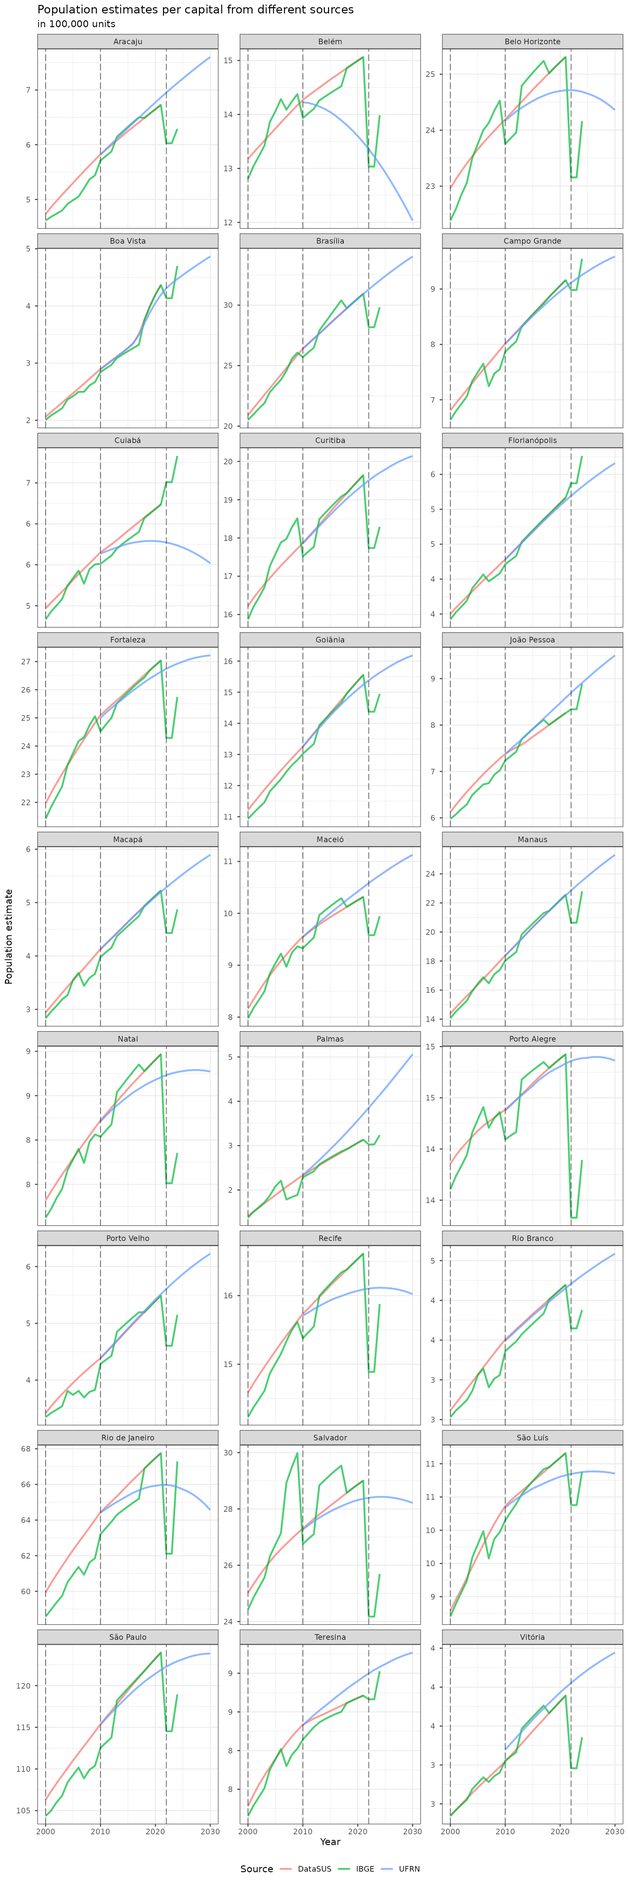
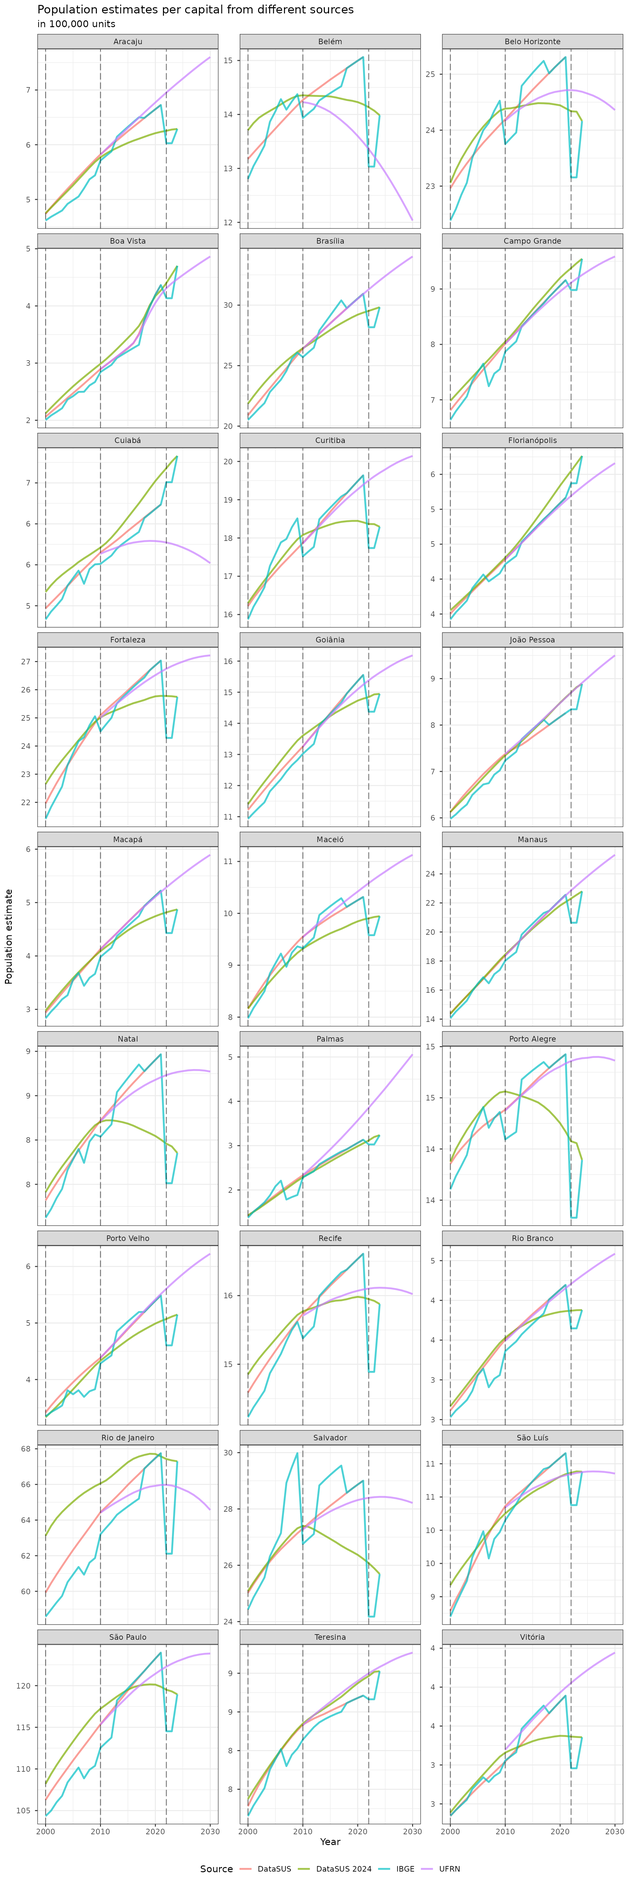
Deploying to gh-pages from @ rfsaldanha/brpop@286cbfffbbc41dc3efab9b3623959a4899475226 🚀

diff --git a/articles/Population-estimates-comparison.html b/articles/Population-estimates-comparison.html
@@ -27,7 +27,7 @@
 
     <a class="navbar-brand me-2" href="../index.html">brpop</a>
 
-    <small class="nav-text text-muted me-auto" data-bs-toggle="tooltip" data-bs-placement="bottom" title="">0.5.0</small>
+    <small class="nav-text text-muted me-auto" data-bs-toggle="tooltip" data-bs-placement="bottom" title="">0.6.0</small>
 
 
     <button class="navbar-toggler" type="button" data-bs-toggle="collapse" data-bs-target="#navbar" aria-controls="navbar" aria-expanded="false" aria-label="Toggle navigation">
@@ -73,9 +73,10 @@
 at the <code>brpop</code> package.</p>
 <p>Currently, the package present population estimates by
 municipalities, sex and age groups computed by the DataSUS (Brazilian
-Health Ministry) and by the UFRN-PPGDEM-LEPP laboratory. The package
-also have the total estimates computed by IBGE for inter-census years,
-and population data for Census and population inquiries years.</p>
+Health Ministry) old and news estimates and by the UFRN-PPGDEM-LEPP
+laboratory. The package also have the total estimates computed by IBGE
+for inter-census years, and population data for Census and population
+inquiries years.</p>
 <div class="sourceCode" id="cb1"><pre class="downlit sourceCode r">
 <code class="sourceCode R"><span><span class="kw"><a href="https://rdrr.io/r/base/library.html" class="external-link">library</a></span><span class="op">(</span><span class="va"><a href="https://dplyr.tidyverse.org" class="external-link">dplyr</a></span><span class="op">)</span></span>
 <span><span class="kw"><a href="https://rdrr.io/r/base/library.html" class="external-link">library</a></span><span class="op">(</span><span class="va"><a href="https://tibble.tidyverse.org/" class="external-link">tibble</a></span><span class="op">)</span></span>
@@ -93,23 +94,28 @@ and population data for Census and population inquiries years.</p>
 <div class="section level2">
 <h2 id="total-population-per-uf">Total population per UF<a class="anchor" aria-label="anchor" href="#total-population-per-uf"></a>
 </h2>
-<p>First, we will compare the total population estimates, using the
-<code>brpop</code> functions to aggregate the estimates per UF.</p>
 <div class="sourceCode" id="cb3"><pre class="downlit sourceCode r">
 <code class="sourceCode R"><span><span class="va">datasus_pop_uf</span> <span class="op">&lt;-</span> <span class="fu"><a href="../reference/uf_pop_totals.html">uf_pop_totals</a></span><span class="op">(</span>source <span class="op">=</span> <span class="st">"datasus"</span><span class="op">)</span> <span class="op">|&gt;</span></span>
 <span>  <span class="fu"><a href="https://dplyr.tidyverse.org/reference/mutate.html" class="external-link">mutate</a></span><span class="op">(</span>source <span class="op">=</span> <span class="st">"DataSUS"</span><span class="op">)</span> <span class="op">|&gt;</span></span>
 <span>  <span class="fu"><a href="https://dplyr.tidyverse.org/reference/filter.html" class="external-link">filter</a></span><span class="op">(</span><span class="va">uf</span> <span class="op">!=</span> <span class="st">"5e"</span><span class="op">)</span></span>
 <span><span class="co">#&gt; Setting `max_tries = 2`.</span></span>
 <span><span class="co">#&gt; Setting `max_tries = 2`.</span></span>
+<span></span>
 <span><span class="va">ufrn_pop_uf</span> <span class="op">&lt;-</span> <span class="fu"><a href="../reference/uf_pop_totals.html">uf_pop_totals</a></span><span class="op">(</span>source <span class="op">=</span> <span class="st">"ufrn"</span><span class="op">)</span> <span class="op">|&gt;</span></span>
 <span>  <span class="fu"><a href="https://dplyr.tidyverse.org/reference/mutate.html" class="external-link">mutate</a></span><span class="op">(</span>source <span class="op">=</span> <span class="st">"UFRN"</span><span class="op">)</span></span>
 <span><span class="co">#&gt; Setting `max_tries = 2`.</span></span>
 <span><span class="co">#&gt; Setting `max_tries = 2`.</span></span>
+<span></span>
 <span><span class="va">ibge_pop_uf</span> <span class="op">&lt;-</span> <span class="fu"><a href="../reference/uf_pop_totals.html">uf_pop_totals</a></span><span class="op">(</span>source <span class="op">=</span> <span class="st">"ibge"</span><span class="op">)</span> <span class="op">|&gt;</span></span>
 <span>  <span class="fu"><a href="https://dplyr.tidyverse.org/reference/mutate.html" class="external-link">mutate</a></span><span class="op">(</span>source <span class="op">=</span> <span class="st">"IBGE"</span><span class="op">)</span></span>
 <span><span class="co">#&gt; Setting `max_tries = 2`.</span></span>
 <span></span>
-<span><span class="fu"><a href="https://dplyr.tidyverse.org/reference/bind_rows.html" class="external-link">bind_rows</a></span><span class="op">(</span><span class="va">datasus_pop_uf</span>, <span class="va">ufrn_pop_uf</span>, <span class="va">ibge_pop_uf</span><span class="op">)</span> <span class="op">|&gt;</span></span>
+<span><span class="va">datasus2024_pop_uf</span> <span class="op">&lt;-</span> <span class="fu"><a href="../reference/uf_pop_totals.html">uf_pop_totals</a></span><span class="op">(</span>source <span class="op">=</span> <span class="st">"datasus2024"</span><span class="op">)</span> <span class="op">|&gt;</span></span>
+<span>  <span class="fu"><a href="https://dplyr.tidyverse.org/reference/mutate.html" class="external-link">mutate</a></span><span class="op">(</span>source <span class="op">=</span> <span class="st">"DataSUS 2024"</span><span class="op">)</span></span>
+<span><span class="co">#&gt; Setting `max_tries = 2`.</span></span>
+<span><span class="co">#&gt; Setting `max_tries = 2`.</span></span>
+<span></span>
+<span><span class="fu"><a href="https://dplyr.tidyverse.org/reference/bind_rows.html" class="external-link">bind_rows</a></span><span class="op">(</span><span class="va">datasus_pop_uf</span>, <span class="va">ufrn_pop_uf</span>, <span class="va">ibge_pop_uf</span>, <span class="va">datasus2024_pop_uf</span><span class="op">)</span> <span class="op">|&gt;</span></span>
 <span>  <span class="fu"><a href="https://dplyr.tidyverse.org/reference/mutate-joins.html" class="external-link">left_join</a></span><span class="op">(</span><span class="va">names_helper</span>, by <span class="op">=</span> <span class="fu"><a href="https://rdrr.io/r/base/c.html" class="external-link">c</a></span><span class="op">(</span><span class="st">"uf"</span> <span class="op">=</span> <span class="st">"uf_code"</span><span class="op">)</span><span class="op">)</span> <span class="op">|&gt;</span></span>
 <span>  <span class="fu"><a href="https://ggplot2.tidyverse.org/reference/ggplot.html" class="external-link">ggplot</a></span><span class="op">(</span><span class="fu"><a href="https://ggplot2.tidyverse.org/reference/aes.html" class="external-link">aes</a></span><span class="op">(</span>x <span class="op">=</span> <span class="va">year</span>, y <span class="op">=</span> <span class="va">pop</span>, color <span class="op">=</span> <span class="va">source</span>, group <span class="op">=</span> <span class="va">source</span><span class="op">)</span><span class="op">)</span> <span class="op">+</span></span>
 <span>  <span class="fu"><a href="https://ggplot2.tidyverse.org/reference/geom_path.html" class="external-link">geom_line</a></span><span class="op">(</span>stat <span class="op">=</span> <span class="st">"identity"</span>, alpha <span class="op">=</span> <span class="fl">.7</span>, lwd <span class="op">=</span> <span class="fl">1</span><span class="op">)</span> <span class="op">+</span></span>
@@ -122,15 +128,10 @@ and population data for Census and population inquiries years.</p>
 <span>       subtitle <span class="op">=</span> <span class="st">"in 100,000 units"</span>,</span>
 <span>       color <span class="op">=</span> <span class="st">"Source"</span>, x <span class="op">=</span> <span class="st">"Year"</span>, y <span class="op">=</span> <span class="st">"Population estimate"</span><span class="op">)</span></span></code></pre></div>
 <p><img src="Population-estimates-comparison_files/figure-html/uf-plot-1.png" width="960"></p>
-<p>It can be observed that the estimates from DataSUS and UFRN generally
-agrees on tendency and present an overlapping period (2010 - 2021) with
-similar values. The IBGE population estimates present a more erratic
-pattern at some UFs.</p>
 </div>
 <div class="section level2">
 <h2 id="total-population-per-capitals">Total population per capitals<a class="anchor" aria-label="anchor" href="#total-population-per-capitals"></a>
 </h2>
-<p>Now let’s look at capitals data.</p>
 <div class="sourceCode" id="cb4"><pre class="downlit sourceCode r">
 <code class="sourceCode R"><span><span class="va">datasus_pop_mun</span> <span class="op">&lt;-</span> <span class="fu"><a href="../reference/mun_pop_totals.html">mun_pop_totals</a></span><span class="op">(</span>source <span class="op">=</span> <span class="st">"datasus"</span><span class="op">)</span> <span class="op">|&gt;</span></span>
 <span>  <span class="fu"><a href="https://dplyr.tidyverse.org/reference/mutate.html" class="external-link">mutate</a></span><span class="op">(</span>source <span class="op">=</span> <span class="st">"DataSUS"</span><span class="op">)</span> <span class="op">|&gt;</span></span>
@@ -144,8 +145,11 @@ pattern at some UFs.</p>
 <span>  <span class="fu"><a href="https://dplyr.tidyverse.org/reference/mutate.html" class="external-link">mutate</a></span><span class="op">(</span>source <span class="op">=</span> <span class="st">"IBGE"</span><span class="op">)</span> <span class="op">|&gt;</span></span>
 <span>  <span class="fu"><a href="https://dplyr.tidyverse.org/reference/mutate-joins.html" class="external-link">right_join</a></span><span class="op">(</span><span class="va">names_helper</span>, by <span class="op">=</span> <span class="fu"><a href="https://rdrr.io/r/base/c.html" class="external-link">c</a></span><span class="op">(</span><span class="st">"code_muni"</span> <span class="op">=</span> <span class="st">"cap_code7"</span><span class="op">)</span><span class="op">)</span></span>
 <span></span>
+<span><span class="va">datasus2024_pop_mun</span> <span class="op">&lt;-</span> <span class="fu"><a href="../reference/mun_pop_totals.html">mun_pop_totals</a></span><span class="op">(</span>source <span class="op">=</span> <span class="st">"datasus2024"</span><span class="op">)</span> <span class="op">|&gt;</span></span>
+<span>  <span class="fu"><a href="https://dplyr.tidyverse.org/reference/mutate.html" class="external-link">mutate</a></span><span class="op">(</span>source <span class="op">=</span> <span class="st">"DataSUS 2024"</span><span class="op">)</span> <span class="op">|&gt;</span></span>
+<span>  <span class="fu"><a href="https://dplyr.tidyverse.org/reference/mutate-joins.html" class="external-link">right_join</a></span><span class="op">(</span><span class="va">names_helper</span>, by <span class="op">=</span> <span class="fu"><a href="https://rdrr.io/r/base/c.html" class="external-link">c</a></span><span class="op">(</span><span class="st">"code_muni"</span> <span class="op">=</span> <span class="st">"cap_code7"</span><span class="op">)</span><span class="op">)</span></span>
 <span></span>
-<span><span class="fu"><a href="https://dplyr.tidyverse.org/reference/bind_rows.html" class="external-link">bind_rows</a></span><span class="op">(</span><span class="va">datasus_pop_mun</span>, <span class="va">ufrn_pop_mun</span>, <span class="va">ibge_pop_mun</span><span class="op">)</span> <span class="op">|&gt;</span></span>
+<span><span class="fu"><a href="https://dplyr.tidyverse.org/reference/bind_rows.html" class="external-link">bind_rows</a></span><span class="op">(</span><span class="va">datasus_pop_mun</span>, <span class="va">ufrn_pop_mun</span>, <span class="va">ibge_pop_mun</span>, <span class="va">datasus2024_pop_mun</span><span class="op">)</span> <span class="op">|&gt;</span></span>
 <span>  <span class="fu"><a href="https://ggplot2.tidyverse.org/reference/ggplot.html" class="external-link">ggplot</a></span><span class="op">(</span><span class="fu"><a href="https://ggplot2.tidyverse.org/reference/aes.html" class="external-link">aes</a></span><span class="op">(</span>x <span class="op">=</span> <span class="va">year</span>, y <span class="op">=</span> <span class="va">pop</span>, color <span class="op">=</span> <span class="va">source</span>, group <span class="op">=</span> <span class="va">source</span><span class="op">)</span><span class="op">)</span> <span class="op">+</span></span>
 <span>  <span class="fu"><a href="https://ggplot2.tidyverse.org/reference/geom_path.html" class="external-link">geom_line</a></span><span class="op">(</span>stat <span class="op">=</span> <span class="st">"identity"</span>, alpha <span class="op">=</span> <span class="fl">.7</span>, lwd <span class="op">=</span> <span class="fl">1</span><span class="op">)</span> <span class="op">+</span></span>
 <span>  <span class="fu"><a href="https://ggplot2.tidyverse.org/reference/geom_abline.html" class="external-link">geom_vline</a></span><span class="op">(</span>xintercept <span class="op">=</span> <span class="fu"><a href="https://rdrr.io/r/base/c.html" class="external-link">c</a></span><span class="op">(</span><span class="fl">2000</span>, <span class="fl">2010</span>, <span class="fl">2022</span><span class="op">)</span>, alpha <span class="op">=</span> <span class="fl">.5</span>, linetype <span class="op">=</span> <span class="st">"longdash"</span><span class="op">)</span> <span class="op">+</span></span>
@@ -157,10 +161,6 @@ pattern at some UFs.</p>
 <span>       subtitle <span class="op">=</span> <span class="st">"in 100,000 units"</span>,</span>
 <span>       color <span class="op">=</span> <span class="st">"Source"</span>, x <span class="op">=</span> <span class="st">"Year"</span>, y <span class="op">=</span> <span class="st">"Population estimate"</span><span class="op">)</span></span></code></pre></div>
 <p><img src="Population-estimates-comparison_files/figure-html/cap-plot-1.png" width="960"></p>
-<p>At the municipal level, the population estimates for the capitals
-presents more variability. At some capitals, the estimates from DataSUS
-and UFRN does not converge on the overlapping period. The IBGE estimates
-also present a more erratic pattern on some capitals.</p>
 </div>
 <div class="section level2">
 <h2 id="session-info">Session info<a class="anchor" aria-label="anchor" href="#session-info"></a>
@@ -188,7 +188,7 @@ also present a more erratic pattern on some capitals.</p>
 <span><span class="co">#&gt; [1] stats     graphics  grDevices utils     datasets  methods   base     </span></span>
 <span><span class="co">#&gt; </span></span>
 <span><span class="co">#&gt; other attached packages:</span></span>
-<span><span class="co">#&gt; [1] brpop_0.5.0   scales_1.3.0  ggplot2_3.5.1 tibble_3.2.1  dplyr_1.1.4  </span></span>
+<span><span class="co">#&gt; [1] brpop_0.6.0   scales_1.3.0  ggplot2_3.5.1 tibble_3.2.1  dplyr_1.1.4  </span></span>
 <span><span class="co">#&gt; </span></span>
 <span><span class="co">#&gt; loaded via a namespace (and not attached):</span></span>
 <span><span class="co">#&gt;  [1] rappdirs_0.3.3    sass_0.4.9        generics_0.1.3    tidyr_1.3.1      </span></span>

diff --git a/reference/datasus2024_mun_female_pop.html b/reference/datasus2024_mun_female_pop.html
@@ -1,5 +1,5 @@
 <!DOCTYPE html>
-<!-- Generated by pkgdown: do not edit by hand --><html lang="en"><head><meta http-equiv="Content-Type" content="text/html; charset=UTF-8"><meta charset="utf-8"><meta http-equiv="X-UA-Compatible" content="IE=edge"><meta name="viewport" content="width=device-width, initial-scale=1, shrink-to-fit=no"><title>Municipality yearly male population estimates per age group from 2000 to 2021 — datasus_mun_male_pop • brpop</title><script src="../deps/jquery-3.6.0/jquery-3.6.0.min.js"></script><meta name="viewport" content="width=device-width, initial-scale=1, shrink-to-fit=no"><link href="../deps/bootstrap-5.3.1/bootstrap.min.css" rel="stylesheet"><script src="../deps/bootstrap-5.3.1/bootstrap.bundle.min.js"></script><link href="../deps/font-awesome-6.5.2/css/all.min.css" rel="stylesheet"><link href="../deps/font-awesome-6.5.2/css/v4-shims.min.css" rel="stylesheet"><script src="../deps/headroom-0.11.0/headroom.min.js"></script><script src="../deps/headroom-0.11.0/jQuery.headroom.min.js"></script><script src="../deps/bootstrap-toc-1.0.1/bootstrap-toc.min.js"></script><script src="../deps/clipboard.js-2.0.11/clipboard.min.js"></script><script src="../deps/search-1.0.0/autocomplete.jquery.min.js"></script><script src="../deps/search-1.0.0/fuse.min.js"></script><script src="../deps/search-1.0.0/mark.min.js"></script><!-- pkgdown --><script src="../pkgdown.js"></script><meta property="og:title" content="Municipality yearly male population estimates per age group from 2000 to 2021 — datasus_mun_male_pop"><meta name="description" content="A dataset containing male population estimates for Brazilian municipalities per age groups from 2000 to 2021."><meta property="og:description" content="A dataset containing male population estimates for Brazilian municipalities per age groups from 2000 to 2021."><!-- Global site tag (gtag.js) - Google Analytics --><script async src="https://www.googletagmanager.com/gtag/js?id=G-2M7VLSRDCB"></script><script>
+<!-- Generated by pkgdown: do not edit by hand --><html lang="en"><head><meta http-equiv="Content-Type" content="text/html; charset=UTF-8"><meta charset="utf-8"><meta http-equiv="X-UA-Compatible" content="IE=edge"><meta name="viewport" content="width=device-width, initial-scale=1, shrink-to-fit=no"><title>Municipality yearly female population estimates per age group from 2000 to 2024 — datasus2024_mun_female_pop • brpop</title><script src="../deps/jquery-3.6.0/jquery-3.6.0.min.js"></script><meta name="viewport" content="width=device-width, initial-scale=1, shrink-to-fit=no"><link href="../deps/bootstrap-5.3.1/bootstrap.min.css" rel="stylesheet"><script src="../deps/bootstrap-5.3.1/bootstrap.bundle.min.js"></script><link href="../deps/font-awesome-6.5.2/css/all.min.css" rel="stylesheet"><link href="../deps/font-awesome-6.5.2/css/v4-shims.min.css" rel="stylesheet"><script src="../deps/headroom-0.11.0/headroom.min.js"></script><script src="../deps/headroom-0.11.0/jQuery.headroom.min.js"></script><script src="../deps/bootstrap-toc-1.0.1/bootstrap-toc.min.js"></script><script src="../deps/clipboard.js-2.0.11/clipboard.min.js"></script><script src="../deps/search-1.0.0/autocomplete.jquery.min.js"></script><script src="../deps/search-1.0.0/fuse.min.js"></script><script src="../deps/search-1.0.0/mark.min.js"></script><!-- pkgdown --><script src="../pkgdown.js"></script><meta property="og:title" content="Municipality yearly female population estimates per age group from 2000 to 2024 — datasus2024_mun_female_pop"><meta name="description" content="A dataset containing female population estimates for Brazilian municipalities per age groups from 2000 to 2024."><meta property="og:description" content="A dataset containing female population estimates for Brazilian municipalities per age groups from 2000 to 2024."><!-- Global site tag (gtag.js) - Google Analytics --><script async src="https://www.googletagmanager.com/gtag/js?id=G-2M7VLSRDCB"></script><script>
   window.dataLayer = window.dataLayer || [];
   function gtag(){dataLayer.push(arguments);}
   gtag('js', new Date());
@@ -36,18 +36,18 @@
 <div class="row">
   <main id="main" class="col-md-9"><div class="page-header">
 
-      <h1>Municipality yearly male population estimates per age group from 2000 to 2021</h1>
-      <small class="dont-index">Source: <a href="https://github.com/rfsaldanha/brpop/blob/main/R/datasus_mun_male_pop.R" class="external-link"><code>R/datasus_mun_male_pop.R</code></a></small>
-      <div class="d-none name"><code>datasus_mun_male_pop.Rd</code></div>
+      <h1>Municipality yearly female population estimates per age group from 2000 to 2024</h1>
+      <small class="dont-index">Source: <a href="https://github.com/rfsaldanha/brpop/blob/main/R/datasus2024_mun_female_pop.R" class="external-link"><code>R/datasus2024_mun_female_pop.R</code></a></small>
+      <div class="d-none name"><code>datasus2024_mun_female_pop.Rd</code></div>
     </div>
 
     <div class="ref-description section level2">
-    <p>A dataset containing male population estimates for Brazilian municipalities per age groups from 2000 to 2021.</p>
+    <p>A dataset containing female population estimates for Brazilian municipalities per age groups from 2000 to 2024.</p>
     </div>
 
     <div class="section level2">
     <h2 id="ref-usage">Usage<a class="anchor" aria-label="anchor" href="#ref-usage"></a></h2>
-    <div class="sourceCode"><pre class="sourceCode r"><code><span><span class="fu">datasus_mun_male_pop</span><span class="op">(</span><span class="op">)</span></span></code></pre></div>
+    <div class="sourceCode"><pre class="sourceCode r"><code><span><span class="fu">datasus2024_mun_female_pop</span><span class="op">(</span><span class="op">)</span></span></code></pre></div>
     </div>
 
     <div class="section level2">

diff --git a/reference/datasus2024_mun_male_pop.html b/reference/datasus2024_mun_male_pop.html
@@ -1,5 +1,5 @@
 <!DOCTYPE html>
-<!-- Generated by pkgdown: do not edit by hand --><html lang="en"><head><meta http-equiv="Content-Type" content="text/html; charset=UTF-8"><meta charset="utf-8"><meta http-equiv="X-UA-Compatible" content="IE=edge"><meta name="viewport" content="width=device-width, initial-scale=1, shrink-to-fit=no"><title>Municipality yearly male population estimates per age group from 2000 to 2021 — datasus_mun_male_pop • brpop</title><script src="../deps/jquery-3.6.0/jquery-3.6.0.min.js"></script><meta name="viewport" content="width=device-width, initial-scale=1, shrink-to-fit=no"><link href="../deps/bootstrap-5.3.1/bootstrap.min.css" rel="stylesheet"><script src="../deps/bootstrap-5.3.1/bootstrap.bundle.min.js"></script><link href="../deps/font-awesome-6.5.2/css/all.min.css" rel="stylesheet"><link href="../deps/font-awesome-6.5.2/css/v4-shims.min.css" rel="stylesheet"><script src="../deps/headroom-0.11.0/headroom.min.js"></script><script src="../deps/headroom-0.11.0/jQuery.headroom.min.js"></script><script src="../deps/bootstrap-toc-1.0.1/bootstrap-toc.min.js"></script><script src="../deps/clipboard.js-2.0.11/clipboard.min.js"></script><script src="../deps/search-1.0.0/autocomplete.jquery.min.js"></script><script src="../deps/search-1.0.0/fuse.min.js"></script><script src="../deps/search-1.0.0/mark.min.js"></script><!-- pkgdown --><script src="../pkgdown.js"></script><meta property="og:title" content="Municipality yearly male population estimates per age group from 2000 to 2021 — datasus_mun_male_pop"><meta name="description" content="A dataset containing male population estimates for Brazilian municipalities per age groups from 2000 to 2021."><meta property="og:description" content="A dataset containing male population estimates for Brazilian municipalities per age groups from 2000 to 2021."><!-- Global site tag (gtag.js) - Google Analytics --><script async src="https://www.googletagmanager.com/gtag/js?id=G-2M7VLSRDCB"></script><script>
+<!-- Generated by pkgdown: do not edit by hand --><html lang="en"><head><meta http-equiv="Content-Type" content="text/html; charset=UTF-8"><meta charset="utf-8"><meta http-equiv="X-UA-Compatible" content="IE=edge"><meta name="viewport" content="width=device-width, initial-scale=1, shrink-to-fit=no"><title>Municipality yearly male population estimates per age group from 2000 to 2024 — datasus2024_mun_male_pop • brpop</title><script src="../deps/jquery-3.6.0/jquery-3.6.0.min.js"></script><meta name="viewport" content="width=device-width, initial-scale=1, shrink-to-fit=no"><link href="../deps/bootstrap-5.3.1/bootstrap.min.css" rel="stylesheet"><script src="../deps/bootstrap-5.3.1/bootstrap.bundle.min.js"></script><link href="../deps/font-awesome-6.5.2/css/all.min.css" rel="stylesheet"><link href="../deps/font-awesome-6.5.2/css/v4-shims.min.css" rel="stylesheet"><script src="../deps/headroom-0.11.0/headroom.min.js"></script><script src="../deps/headroom-0.11.0/jQuery.headroom.min.js"></script><script src="../deps/bootstrap-toc-1.0.1/bootstrap-toc.min.js"></script><script src="../deps/clipboard.js-2.0.11/clipboard.min.js"></script><script src="../deps/search-1.0.0/autocomplete.jquery.min.js"></script><script src="../deps/search-1.0.0/fuse.min.js"></script><script src="../deps/search-1.0.0/mark.min.js"></script><!-- pkgdown --><script src="../pkgdown.js"></script><meta property="og:title" content="Municipality yearly male population estimates per age group from 2000 to 2024 — datasus2024_mun_male_pop"><meta name="description" content="A dataset containing male population estimates for Brazilian municipalities per age groups from 2000 to 2024."><meta property="og:description" content="A dataset containing male population estimates for Brazilian municipalities per age groups from 2000 to 2024."><!-- Global site tag (gtag.js) - Google Analytics --><script async src="https://www.googletagmanager.com/gtag/js?id=G-2M7VLSRDCB"></script><script>
   window.dataLayer = window.dataLayer || [];
   function gtag(){dataLayer.push(arguments);}
   gtag('js', new Date());
@@ -36,18 +36,18 @@
 <div class="row">
   <main id="main" class="col-md-9"><div class="page-header">
 
-      <h1>Municipality yearly male population estimates per age group from 2000 to 2021</h1>
-      <small class="dont-index">Source: <a href="https://github.com/rfsaldanha/brpop/blob/main/R/datasus_mun_male_pop.R" class="external-link"><code>R/datasus_mun_male_pop.R</code></a></small>
-      <div class="d-none name"><code>datasus_mun_male_pop.Rd</code></div>
+      <h1>Municipality yearly male population estimates per age group from 2000 to 2024</h1>
+      <small class="dont-index">Source: <a href="https://github.com/rfsaldanha/brpop/blob/main/R/datasus2024_mun_male_pop.R" class="external-link"><code>R/datasus2024_mun_male_pop.R</code></a></small>
+      <div class="d-none name"><code>datasus2024_mun_male_pop.Rd</code></div>
     </div>
 
     <div class="ref-description section level2">
-    <p>A dataset containing male population estimates for Brazilian municipalities per age groups from 2000 to 2021.</p>
+    <p>A dataset containing male population estimates for Brazilian municipalities per age groups from 2000 to 2024.</p>
     </div>
 
     <div class="section level2">
     <h2 id="ref-usage">Usage<a class="anchor" aria-label="anchor" href="#ref-usage"></a></h2>
-    <div class="sourceCode"><pre class="sourceCode r"><code><span><span class="fu">datasus_mun_male_pop</span><span class="op">(</span><span class="op">)</span></span></code></pre></div>
+    <div class="sourceCode"><pre class="sourceCode r"><code><span><span class="fu">datasus2024_mun_male_pop</span><span class="op">(</span><span class="op">)</span></span></code></pre></div>
     </div>
 
     <div class="section level2">

diff --git a/news/index.html b/news/index.html
@@ -13,7 +13,7 @@
 
     <a class="navbar-brand me-2" href="../index.html">brpop</a>
 
-    <small class="nav-text text-muted me-auto" data-bs-toggle="tooltip" data-bs-placement="bottom" title="">0.5.0</small>
+    <small class="nav-text text-muted me-auto" data-bs-toggle="tooltip" data-bs-placement="bottom" title="">0.6.0</small>
 
 
     <button class="navbar-toggler" type="button" data-bs-toggle="collapse" data-bs-target="#navbar" aria-controls="navbar" aria-expanded="false" aria-label="Toggle navigation">
@@ -40,6 +40,11 @@
       <small>Source: <a href="https://github.com/rfsaldanha/brpop/blob/main/NEWS.md" class="external-link"><code>NEWS.md</code></a></small>
     </div>
 
+    <div class="section level2">
+<h2 class="pkg-version" data-toc-text="0.6.0" id="brpop-060">brpop 0.6.0<a class="anchor" aria-label="anchor" href="#brpop-060"></a></h2>
+<ul><li>Add DataSUS new population estimates (2000 - 2024) source option to all functions</li>
+<li>Improve documentation with timespan estimates of all sources</li>
+</ul></div>
     <div class="section level2">
 <h2 class="pkg-version" data-toc-text="0.5.0" id="brpop-050">brpop 0.5.0<a class="anchor" aria-label="anchor" href="#brpop-050"></a></h2><p class="text-muted">CRAN release: 2024-10-17</p>
 <ul><li>Move data files to Zenodo and use {zendown} package to handle file download. This will keep the package smaller for future CRAN versions.</li>

diff --git a/reference/brpop-package.html b/reference/brpop-package.html
@@ -13,7 +13,7 @@
 
     <a class="navbar-brand me-2" href="../index.html">brpop</a>
 
-    <small class="nav-text text-muted me-auto" data-bs-toggle="tooltip" data-bs-placement="bottom" title="">0.5.0</small>
+    <small class="nav-text text-muted me-auto" data-bs-toggle="tooltip" data-bs-placement="bottom" title="">0.6.0</small>
 
 
     <button class="navbar-toggler" type="button" data-bs-toggle="collapse" data-bs-target="#navbar" aria-controls="navbar" aria-expanded="false" aria-label="Toggle navigation">
@@ -54,7 +54,7 @@
     </div>
     <div class="section level2">
     <h2 id="author">Author<a class="anchor" aria-label="anchor" href="#author"></a></h2>
-    <p><strong>Maintainer</strong>: Raphael Saldanha <a href="mailto:raphael.de-freitas-saldanha@inria.fr">raphael.de-freitas-saldanha@inria.fr</a> (<a href="https://orcid.org/0000-0003-0652-8466" class="external-link">ORCID</a>)</p>
+    <p><strong>Maintainer</strong>: Raphael Saldanha <a href="mailto:raphael.saldanha@fiocruz.br">raphael.saldanha@fiocruz.br</a> (<a href="https://orcid.org/0000-0003-0652-8466" class="external-link">ORCID</a>)</p>
     </div>
 
   </main><aside class="col-md-3"><nav id="toc" aria-label="Table of contents"><h2>On this page</h2>

diff --git a/reference/index.html b/reference/index.html
@@ -13,7 +13,7 @@
 
     <a class="navbar-brand me-2" href="../index.html">brpop</a>
 
-    <small class="nav-text text-muted me-auto" data-bs-toggle="tooltip" data-bs-placement="bottom" title="">0.5.0</small>
+    <small class="nav-text text-muted me-auto" data-bs-toggle="tooltip" data-bs-placement="bottom" title="">0.6.0</small>
 
 
     <button class="navbar-toggler" type="button" data-bs-toggle="collapse" data-bs-target="#navbar" aria-controls="navbar" aria-expanded="false" aria-label="Toggle navigation">
@@ -62,6 +62,18 @@
 
         </dt>
         <dd>Municipality yearly male population estimates per age group from 2000 to 2021</dd>
+      </dl><dl><dt>
+
+          <code><a href="datasus2024_mun_female_pop.html">datasus2024_mun_female_pop()</a></code>
+
+        </dt>
+        <dd>Municipality yearly female population estimates per age group from 2000 to 2024</dd>
+      </dl><dl><dt>
+
+          <code><a href="datasus2024_mun_male_pop.html">datasus2024_mun_male_pop()</a></code>
+
+        </dt>
+        <dd>Municipality yearly male population estimates per age group from 2000 to 2024</dd>
       </dl><dl><dt>
 
           <code><a href="ufrn_mun_female_pop.html">ufrn_mun_female_pop()</a></code>

diff --git a/reference/mun_pop_totals.html b/reference/mun_pop_totals.html
@@ -13,7 +13,7 @@
 
     <a class="navbar-brand me-2" href="../index.html">brpop</a>
 
-    <small class="nav-text text-muted me-auto" data-bs-toggle="tooltip" data-bs-placement="bottom" title="">0.5.0</small>
+    <small class="nav-text text-muted me-auto" data-bs-toggle="tooltip" data-bs-placement="bottom" title="">0.6.0</small>
 
 
     <button class="navbar-toggler" type="button" data-bs-toggle="collapse" data-bs-target="#navbar" aria-controls="navbar" aria-expanded="false" aria-label="Toggle navigation">
@@ -55,7 +55,7 @@
 
 
 <dl><dt id="arg-source">source<a class="anchor" aria-label="anchor" href="#arg-source"></a></dt>
-<dd><p>character. <code>datasus</code> for Brazilian Health Ministry estimates (2000 to 2021), <code>ufrn</code> for UFRN-DEM-LEPP estimates (2010 to 2030), or <code>ibge</code> for IBGE estimates (2000 to 2022).</p></dd>
+<dd><p>character. <code>datasus</code> for Brazilian Health Ministry old estimates (2000 to 2021), <code>datasus2024</code> for Brazilian Health Ministry new estimates (2000 to 2024), <code>ufrn</code> for UFRN-DEM-LEPP estimates (2010 to 2030), or <code>ibge</code> for IBGE estimates (2000 to 2022).</p></dd>
 
 </dl></div>
     <div class="section level2">

diff --git a/reference/uf_pop_totals.html b/reference/uf_pop_totals.html
@@ -13,7 +13,7 @@
 
     <a class="navbar-brand me-2" href="../index.html">brpop</a>
 
-    <small class="nav-text text-muted me-auto" data-bs-toggle="tooltip" data-bs-placement="bottom" title="">0.5.0</small>
+    <small class="nav-text text-muted me-auto" data-bs-toggle="tooltip" data-bs-placement="bottom" title="">0.6.0</small>
 
 
     <button class="navbar-toggler" type="button" data-bs-toggle="collapse" data-bs-target="#navbar" aria-controls="navbar" aria-expanded="false" aria-label="Toggle navigation">
@@ -55,7 +55,7 @@
 
 
 <dl><dt id="arg-source">source<a class="anchor" aria-label="anchor" href="#arg-source"></a></dt>
-<dd><p>character. <code>datasus</code> for Brazilian Health Ministry estimates (2000 to 2021), <code>ufrn</code> for UFRN-DEM-LEPP estimates (2010 to 2030), or <code>ibge</code> for IBGE estimates (2000 to 2022).</p></dd>
+<dd><p>character. <code>datasus</code> for Brazilian Health Ministry old estimates (2000 to 2021), <code>datasus2024</code> for Brazilian Health Ministry new estimates (2000 to 2024), <code>ufrn</code> for UFRN-DEM-LEPP estimates (2010 to 2030), or <code>ibge</code> for IBGE estimates (2000 to 2022).</p></dd>
 
 </dl></div>
     <div class="section level2">

diff --git a/reference/regsaude_pop_totals.html b/reference/regsaude_pop_totals.html
@@ -13,7 +13,7 @@
 
     <a class="navbar-brand me-2" href="../index.html">brpop</a>
 
-    <small class="nav-text text-muted me-auto" data-bs-toggle="tooltip" data-bs-placement="bottom" title="">0.5.0</small>
+    <small class="nav-text text-muted me-auto" data-bs-toggle="tooltip" data-bs-placement="bottom" title="">0.6.0</small>
 
 
     <button class="navbar-toggler" type="button" data-bs-toggle="collapse" data-bs-target="#navbar" aria-controls="navbar" aria-expanded="false" aria-label="Toggle navigation">
@@ -59,7 +59,7 @@
 
 
 <dt id="arg-source">source<a class="anchor" aria-label="anchor" href="#arg-source"></a></dt>
-<dd><p>character. <code>datasus</code> for Brazilian Health Ministry estimates (2000 to 2021), <code>ufrn</code> for UFRN-DEM-LEPP estimates (2010 to 2030), or <code>ibge</code> for IBGE estimates (2000 to 2022).</p></dd>
+<dd><p>character. <code>datasus</code> for Brazilian Health Ministry old estimates (2000 to 2021), <code>datasus2024</code> for Brazilian Health Ministry new estimates (2000 to 2024), <code>ufrn</code> for UFRN-DEM-LEPP estimates (2010 to 2030), or <code>ibge</code> for IBGE estimates (2000 to 2022).</p></dd>
 
 </dl></div>
     <div class="section level2">

diff --git a/reference/mun_pop_age.html b/reference/mun_pop_age.html
@@ -13,7 +13,7 @@
 
     <a class="navbar-brand me-2" href="../index.html">brpop</a>
 
-    <small class="nav-text text-muted me-auto" data-bs-toggle="tooltip" data-bs-placement="bottom" title="">0.5.0</small>
+    <small class="nav-text text-muted me-auto" data-bs-toggle="tooltip" data-bs-placement="bottom" title="">0.6.0</small>
 
 
     <button class="navbar-toggler" type="button" data-bs-toggle="collapse" data-bs-target="#navbar" aria-controls="navbar" aria-expanded="false" aria-label="Toggle navigation">
@@ -55,7 +55,7 @@
 
 
 <dl><dt id="arg-source">source<a class="anchor" aria-label="anchor" href="#arg-source"></a></dt>
-<dd><p>character. <code>datasus</code> for Brazilian Health Ministry estimates, <code>ufrn</code> for UFRN-DEM-LEPP estimates, <code>avg</code> for an average between both.</p></dd>
+<dd><p>character. <code>datasus</code> for Brazilian Health Ministry old estimates (2000 to 2021), <code>datasus2024</code> for Brazilian Health Ministry new estimates (2000 to 2024), or <code>ufrn</code> for UFRN-DEM-LEPP estimates (2010 to 2030).</p></dd>
 
 </dl></div>
     <div class="section level2">

diff --git a/authors.html b/authors.html
@@ -13,7 +13,7 @@
 
     <a class="navbar-brand me-2" href="index.html">brpop</a>
 
-    <small class="nav-text text-muted me-auto" data-bs-toggle="tooltip" data-bs-placement="bottom" title="">0.5.0</small>
+    <small class="nav-text text-muted me-auto" data-bs-toggle="tooltip" data-bs-placement="bottom" title="">0.6.0</small>
 
 
     <button class="navbar-toggler" type="button" data-bs-toggle="collapse" data-bs-target="#navbar" aria-controls="navbar" aria-expanded="false" aria-label="Toggle navigation">
@@ -54,13 +54,13 @@
 
       <p>Saldanha R (2025).
 <em>brpop: Brazilian Population Estimatives</em>.
-R package version 0.5.0, <a href="https://rfsaldanha.github.io/brpop/">https://rfsaldanha.github.io/brpop/</a>.
+R package version 0.6.0, <a href="https://rfsaldanha.github.io/brpop/">https://rfsaldanha.github.io/brpop/</a>.
 </p>
       <pre>@Manual{,
   title = {brpop: Brazilian Population Estimatives},
   author = {Raphael Saldanha},
   year = {2025},
-  note = {R package version 0.5.0},
+  note = {R package version 0.6.0},
   url = {https://rfsaldanha.github.io/brpop/},
 }</pre>
     </div>

diff --git a/reference/mun_female_pop_totals.html b/reference/mun_female_pop_totals.html
@@ -13,7 +13,7 @@
 
     <a class="navbar-brand me-2" href="../index.html">brpop</a>
 
-    <small class="nav-text text-muted me-auto" data-bs-toggle="tooltip" data-bs-placement="bottom" title="">0.5.0</small>
+    <small class="nav-text text-muted me-auto" data-bs-toggle="tooltip" data-bs-placement="bottom" title="">0.6.0</small>
 
 
     <button class="navbar-toggler" type="button" data-bs-toggle="collapse" data-bs-target="#navbar" aria-controls="navbar" aria-expanded="false" aria-label="Toggle navigation">
@@ -55,7 +55,7 @@
 
 
 <dl><dt id="arg-source">source<a class="anchor" aria-label="anchor" href="#arg-source"></a></dt>
-<dd><p>character. <code>datasus</code> for Brazilian Health Ministry estimates, or <code>ufrn</code> for UFRN-DEM-LEPP estimates.</p></dd>
+<dd><p>character. <code>datasus</code> for Brazilian Health Ministry old estimates (2000 to 2021), <code>datasus2024</code> for Brazilian Health Ministry new estimates (2000 to 2024), or <code>ufrn</code> for UFRN-DEM-LEPP estimates (2010 to 2030).</p></dd>
 
 </dl></div>
     <div class="section level2">
